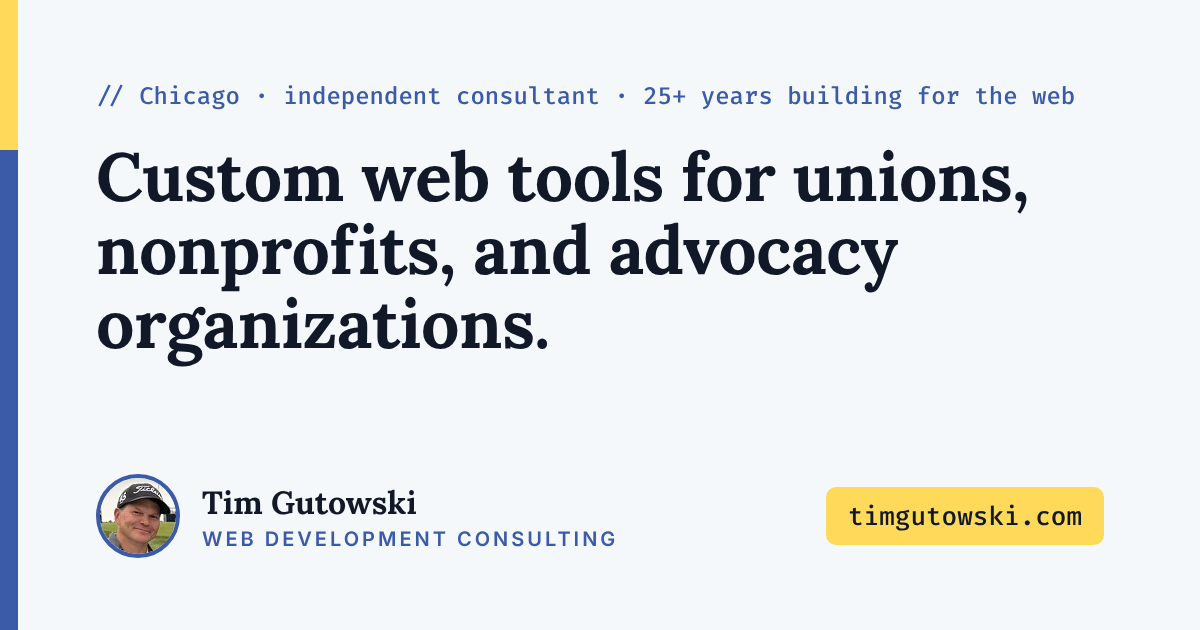
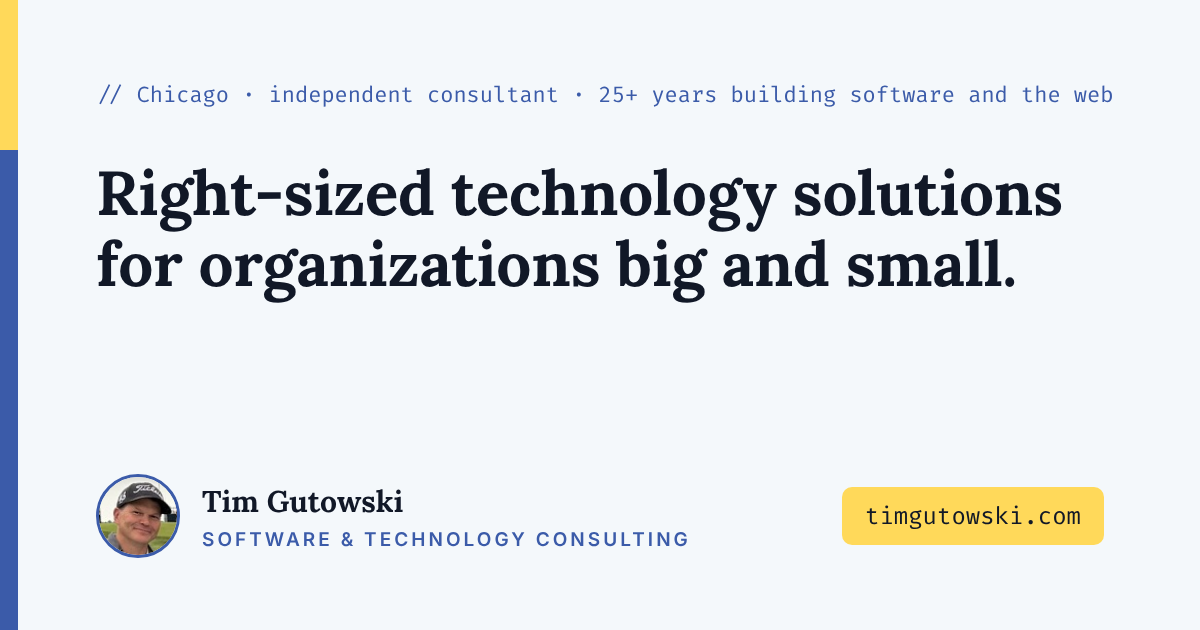
Copy edits from Jamie's review (Oct 26 pass)
Broaden positioning from "web development" to software & technology
consulting for organizations big and small; discovery-led home intro;
"How we work together"; drop "senior"/"white-label"/"hand-holding";
network referral in CTA; About intro line; regenerated OG image.

Claude-Session: https://claude.ai/code/session_01KY7vkmgpbkP1eK69cNLTrW

diff --git a/index.html b/index.html
@@ -3,9 +3,9 @@
 <head>
     <meta charset="UTF-8">
     <meta name="viewport" content="width=device-width, initial-scale=1.0">
-    <title>Tim Gutowski — Web Development Consulting</title>
-    <meta name="description" content="Tim Gutowski builds custom web tools for unions, nonprofits, and advocacy organizations: WordPress builds and rescues, Rails and React applications, legislative scorecards, and AWS infrastructure. Chicago-based, 25+ years of experience.">
-    <meta name="keywords" content="Tim Gutowski, web development consultant, WordPress developer, WordPress rescue, Ruby on Rails, React, JavaScript, TypeScript, PHP, MySQL, AWS, REST APIs, Action Network, EveryAction, Mailchimp, Asana API, AI integration, Claude, union websites, nonprofit websites, advocacy technology, legislative scorecard, Chicago consultant, freelance developer">
+    <title>Tim Gutowski — Software &amp; Technology Consulting</title>
+    <meta name="description" content="Tim Gutowski plans, builds, and implements right-sized technology solutions for organizations big and small — unions and nonprofits, pro sports leagues, campaigns, and federal agencies. Custom applications, WordPress, integrations, and AWS. Chicago-based, 25+ years of experience.">
+    <meta name="keywords" content="Tim Gutowski, software consultant, technology consultant, web development consultant, WordPress developer, WordPress rescue, Ruby on Rails, React, JavaScript, TypeScript, PHP, MySQL, AWS, REST APIs, Action Network, EveryAction, Mailchimp, Asana API, AI integration, Claude, union websites, nonprofit websites, advocacy technology, legislative scorecard, Chicago consultant, freelance developer">
     <link rel="canonical" href="https://timgutowski.com/">
     <meta name="theme-color" content="#3B5BA9">
     <link rel="icon" href="img/favicon.svg" type="image/svg+xml">
@@ -13,13 +13,13 @@
     <link rel="apple-touch-icon" href="img/apple-touch-icon.png">
     <meta property="og:type" content="website">
     <meta property="og:site_name" content="Tim Gutowski">
-    <meta property="og:title" content="Tim Gutowski — Web Development Consulting">
-    <meta property="og:description" content="Tim Gutowski builds custom web tools for unions, nonprofits, and advocacy organizations: WordPress builds and rescues, Rails and React applications, legislative scorecards, and AWS infrastructure. Chicago-based, 25+ years of experience.">
+    <meta property="og:title" content="Tim Gutowski — Software &amp; Technology Consulting">
+    <meta property="og:description" content="Tim Gutowski plans, builds, and implements right-sized technology solutions for organizations big and small — unions and nonprofits, pro sports leagues, campaigns, and federal agencies. Custom applications, WordPress, integrations, and AWS. Chicago-based, 25+ years of experience.">
     <meta property="og:url" content="https://timgutowski.com/">
     <meta property="og:image" content="https://timgutowski.com/img/og-image.png">
     <meta property="og:image:width" content="1200">
     <meta property="og:image:height" content="630">
-    <meta property="og:image:alt" content="Tim Gutowski — custom web tools for unions, nonprofits, and advocacy organizations">
+    <meta property="og:image:alt" content="Tim Gutowski — software and technology consulting for organizations big and small">
     <meta name="twitter:card" content="summary_large_image">
     <!-- Compiled Tailwind (rebuild with: npm run build:css) -->
     <link rel="stylesheet" href="css/tailwind.css">
@@ -39,7 +39,7 @@
                 <img src="img/headshot.jpeg" alt="Tim Gutowski" class="w-10 h-10 rounded-full border-2 border-tg-blue object-cover group-hover:border-tg-yellow-dark transition-colors duration-200">
                 <span class="flex flex-col leading-tight">
                     <span class="font-serif font-bold text-lg text-gray-900">Tim Gutowski</span>
-                    <span class="text-[11px] uppercase tracking-widest text-tg-blue">Web Development Consulting</span>
+                    <span class="text-[11px] uppercase tracking-widest text-tg-blue">Software &amp; Technology Consulting</span>
                 </span>
             </a>
             <div class="hidden md:flex items-center gap-7">
@@ -66,9 +66,9 @@
         <!-- Hero -->
         <section class="container mx-auto max-w-6xl px-4 pt-12 pb-16">
             <div class="max-w-3xl">
-                <p class="font-mono text-sm text-tg-blue mb-4">// Chicago &middot; independent consultant &middot; 25+ years building for the web</p>
-                <h1 class="font-serif text-4xl md:text-5xl font-bold leading-tight mb-6">Custom web tools for unions, nonprofits, and advocacy organizations.</h1>
-                <p class="text-lg text-gray-700 leading-relaxed mb-8">I plan, build, rescue, and scale the software behind campaigns and causes &mdash; legislative scorecards, organizing tools, WordPress builds and migrations, Rails and React applications &mdash; and I communicate clearly with technical and non-technical stakeholders alike.</p>
+                <p class="font-mono text-sm text-tg-blue mb-4">// Chicago &middot; independent consultant &middot; 25+ years building software and the web</p>
+                <h1 class="font-serif text-4xl md:text-5xl font-bold leading-tight mb-6">Right-sized technology solutions for organizations big and small.</h1>
+                <p class="text-lg text-gray-700 leading-relaxed mb-8">I start by understanding the challenge you&rsquo;re facing, the systems you already have, and what success looks like. Then I plan, build, and implement a solution that fits &mdash; and grows with you. I&rsquo;ve done this for unions and nonprofits, pro sports leagues, presidential campaigns, and federal agencies, and I communicate clearly with technical and non-technical stakeholders alike.</p>
                 <div class="flex flex-wrap gap-4">
                     <a href="mailto:timgut@gmail.com?subject=Project%20inquiry" class="bg-tg-blue hover:bg-tg-yellow-dark hover:text-gray-900 text-white font-semibold px-6 py-3 rounded-lg transition-colors duration-200">Start a project</a>
                     <a href="portfolio.html" class="border border-tg-blue text-tg-blue hover:bg-tg-blue hover:text-white font-semibold px-6 py-3 rounded-lg transition-colors duration-200">See recent work</a>
@@ -79,7 +79,7 @@
         <!-- Credibility strip -->
         <section class="bg-white border-y border-gray-200">
             <div class="container mx-auto max-w-6xl px-4 py-6">
-                <p class="text-sm text-gray-600"><span class="uppercase tracking-widest text-xs text-gray-400 mr-3">Built for</span> AFSCME &middot; CPWR (Silica-Safe) &middot; Robert Wood Johnson Foundation &middot; presidential campaigns &middot; NFL, MLB &amp; NHL properties &middot; federal agencies</p>
+                <p class="text-sm text-gray-600"><span class="uppercase tracking-widest text-xs text-gray-400 mr-3">Built for</span> NFL, MLB &amp; NHL properties &middot; presidential campaigns &middot; federal agencies &middot; AFSCME &middot; CPWR (Silica-Safe) &middot; Robert Wood Johnson Foundation</p>
             </div>
         </section>
 
@@ -151,17 +151,17 @@
             </div>
         </section>
 
-        <!-- How I work -->
+        <!-- How we work together -->
         <section class="container mx-auto max-w-6xl px-4 py-16">
-            <h2 class="font-serif text-3xl font-bold mb-8">How I work</h2>
+            <h2 class="font-serif text-3xl font-bold mb-8">How we work together</h2>
             <div class="grid gap-6 md:grid-cols-3">
                 <div class="bg-white rounded-xl border border-gray-200 p-6">
                     <p class="font-mono text-tg-blue text-sm mb-2">01 &mdash; Scope</p>
-                    <p class="text-sm text-gray-600 leading-relaxed">A short call, then a written scope with real estimates. I manage software, budgets, and expectations for a living &mdash; you&rsquo;ll always know where things stand.</p>
+                    <p class="text-sm text-gray-600 leading-relaxed">A short call to understand the problem, your current systems, and what success looks like &mdash; then a written scope with real estimates. I manage software, budgets, and expectations for a living &mdash; you&rsquo;ll always know where things stand.</p>
                 </div>
                 <div class="bg-white rounded-xl border border-gray-200 p-6">
                     <p class="font-mono text-tg-blue text-sm mb-2">02 &mdash; Build</p>
-                    <p class="text-sm text-gray-600 leading-relaxed">Senior work without hand-holding: short-term projects (1&ndash;3 months), ongoing engagements, or white-label capacity for agencies that need extra hands.</p>
+                    <p class="text-sm text-gray-600 leading-relaxed">Your needs, efficient solutions: short-term projects (1&ndash;3 months), ongoing engagements, or extra capacity for agencies that need to extend their team.</p>
                 </div>
                 <div class="bg-white rounded-xl border border-gray-200 p-6">
                     <p class="font-mono text-tg-blue text-sm mb-2">03 &mdash; Handoff</p>
@@ -174,7 +174,7 @@
         <section class="container mx-auto max-w-6xl px-4">
             <div class="bg-tg-blue rounded-2xl px-8 py-12 text-center">
                 <h2 class="font-serif text-3xl font-bold text-white mb-3">Have a project in mind?</h2>
-                <p class="text-blue-100 mb-8 max-w-xl mx-auto">Tell me what you&rsquo;re trying to build, fix, or replace. I&rsquo;ll tell you honestly whether I&rsquo;m the right person for it.</p>
+                <p class="text-blue-100 mb-8 max-w-xl mx-auto">Tell me what you&rsquo;re trying to build, fix, or replace. I&rsquo;ll tell you honestly whether I&rsquo;m the right person for it &mdash; and if I&rsquo;m not, I&rsquo;ll point you to someone in my network who is.</p>
                 <div class="flex flex-wrap justify-center gap-4">
                     <a href="mailto:timgut@gmail.com?subject=Project%20inquiry" class="bg-tg-yellow hover:bg-tg-yellow-dark text-gray-900 font-semibold px-6 py-3 rounded-lg transition-colors duration-200"><i class="fas fa-envelope mr-2"></i>Email me</a>
                     <a href="https://www.linkedin.com/in/timgutowski/" class="border border-white/40 text-white hover:bg-white hover:text-tg-blue font-semibold px-6 py-3 rounded-lg transition-colors duration-200"><i class="fab fa-linkedin mr-2"></i>Message on LinkedIn</a>
@@ -186,7 +186,7 @@
         <div class="container mx-auto max-w-6xl px-4 py-12 grid gap-10 md:grid-cols-3">
             <div>
                 <p class="font-serif font-bold text-white text-lg mb-2">Tim Gutowski</p>
-                <p class="text-sm leading-relaxed">Custom web tools for unions, nonprofits, and advocacy organizations &mdash; plus WordPress rescues and Rails/React application work. Based in Chicago, working everywhere.</p>
+                <p class="text-sm leading-relaxed">Right-sized technology solutions for organizations big and small &mdash; with deep roots in unions, nonprofits, government, and campaigns. Based in Chicago, working everywhere.</p>
             </div>
             <div>
                 <p class="text-xs uppercase tracking-widest text-gray-500 mb-3">Site</p>

diff --git a/consulting.html b/consulting.html
@@ -4,8 +4,8 @@
     <meta charset="UTF-8">
     <meta name="viewport" content="width=device-width, initial-scale=1.0">
     <title>Services — Tim Gutowski</title>
-    <meta name="description" content="Consulting services from Tim Gutowski: WordPress builds, migrations and rescues; advocacy and data tools; custom Rails/React applications; AWS infrastructure and cost optimization; API and AI integrations. Project, ongoing, and white-label engagements.">
-    <meta name="keywords" content="Tim Gutowski, web development consultant, WordPress developer, WordPress rescue, Ruby on Rails, React, JavaScript, TypeScript, PHP, MySQL, AWS, REST APIs, Action Network, EveryAction, Mailchimp, Asana API, AI integration, Claude, union websites, nonprofit websites, advocacy technology, legislative scorecard, Chicago consultant, freelance developer">
+    <meta name="description" content="Consulting services from Tim Gutowski: WordPress builds, migrations and rescues; advocacy and data tools; custom Rails/React applications; AWS infrastructure and cost optimization; API and AI integrations. Project, ongoing, and team-extension engagements.">
+    <meta name="keywords" content="Tim Gutowski, software consultant, technology consultant, web development consultant, WordPress developer, WordPress rescue, Ruby on Rails, React, JavaScript, TypeScript, PHP, MySQL, AWS, REST APIs, Action Network, EveryAction, Mailchimp, Asana API, AI integration, Claude, union websites, nonprofit websites, advocacy technology, legislative scorecard, Chicago consultant, freelance developer">
     <link rel="canonical" href="https://timgutowski.com/consulting.html">
     <meta name="theme-color" content="#3B5BA9">
     <link rel="icon" href="img/favicon.svg" type="image/svg+xml">
@@ -14,12 +14,12 @@
     <meta property="og:type" content="website">
     <meta property="og:site_name" content="Tim Gutowski">
     <meta property="og:title" content="Services — Tim Gutowski">
-    <meta property="og:description" content="Consulting services from Tim Gutowski: WordPress builds, migrations and rescues; advocacy and data tools; custom Rails/React applications; AWS infrastructure and cost optimization; API and AI integrations. Project, ongoing, and white-label engagements.">
+    <meta property="og:description" content="Consulting services from Tim Gutowski: WordPress builds, migrations and rescues; advocacy and data tools; custom Rails/React applications; AWS infrastructure and cost optimization; API and AI integrations. Project, ongoing, and team-extension engagements.">
     <meta property="og:url" content="https://timgutowski.com/consulting.html">
     <meta property="og:image" content="https://timgutowski.com/img/og-image.png">
     <meta property="og:image:width" content="1200">
     <meta property="og:image:height" content="630">
-    <meta property="og:image:alt" content="Tim Gutowski — custom web tools for unions, nonprofits, and advocacy organizations">
+    <meta property="og:image:alt" content="Tim Gutowski — software and technology consulting for organizations big and small">
     <meta name="twitter:card" content="summary_large_image">
     <!-- Compiled Tailwind (rebuild with: npm run build:css) -->
     <link rel="stylesheet" href="css/tailwind.css">
@@ -39,7 +39,7 @@
                 <img src="img/headshot.jpeg" alt="Tim Gutowski" class="w-10 h-10 rounded-full border-2 border-tg-blue object-cover group-hover:border-tg-yellow-dark transition-colors duration-200">
                 <span class="flex flex-col leading-tight">
                     <span class="font-serif font-bold text-lg text-gray-900">Tim Gutowski</span>
-                    <span class="text-[11px] uppercase tracking-widest text-tg-blue">Web Development Consulting</span>
+                    <span class="text-[11px] uppercase tracking-widest text-tg-blue">Software &amp; Technology Consulting</span>
                 </span>
             </a>
             <div class="hidden md:flex items-center gap-7">
@@ -65,7 +65,7 @@
     <main class="pt-24">
         <section class="container mx-auto max-w-4xl px-4 pt-12 pb-10">
             <h1 class="font-serif text-4xl font-bold mb-4">Services</h1>
-            <p class="text-lg text-gray-700 leading-relaxed">I take on a limited number of engagements at a time, so every project gets senior attention from scope to handoff. Here&rsquo;s what that work usually looks like.</p>
+            <p class="text-lg text-gray-700 leading-relaxed">I take on a limited number of engagements at a time and work with clients who need what I deliver. You get the most experienced person &mdash; me &mdash; for the duration of your project, from scope to handoff. I don&rsquo;t outsource the work. Here&rsquo;s what it usually looks like.</p>
         </section>
         <section class="container mx-auto max-w-4xl px-4 grid gap-8">
             <div class="bg-white rounded-xl border border-gray-200 p-8" id="wordpress">
@@ -202,11 +202,11 @@
                 </div>
                 <div class="bg-white rounded-xl border border-gray-200 p-6">
                     <h3 class="font-semibold mb-2"><i class="fas fa-rotate text-tg-blue mr-2"></i>Ongoing</h3>
-                    <p class="text-sm text-gray-600 leading-relaxed">A standing monthly engagement for organizations that need a senior developer in their corner without a full-time hire.</p>
+                    <p class="text-sm text-gray-600 leading-relaxed">A standing monthly engagement for organizations that need an experienced developer in their corner without a full-time hire.</p>
                 </div>
                 <div class="bg-white rounded-xl border border-gray-200 p-6">
-                    <h3 class="font-semibold mb-2"><i class="fas fa-people-arrows text-tg-blue mr-2"></i>White-label</h3>
-                    <p class="text-sm text-gray-600 leading-relaxed">Overflow capacity for agencies: your brand, your PM process, my code. I do this today for several agency partners &mdash; scope it, hand it off, get it back.</p>
+                    <h3 class="font-semibold mb-2"><i class="fas fa-people-arrows text-tg-blue mr-2"></i>Team extension</h3>
+                    <p class="text-sm text-gray-600 leading-relaxed">Extra capacity for agencies: your brand, your PM process, my code. I do this today for several agency partners &mdash; scope it, hand it off, get it back.</p>
                 </div>
             </div>
             <p class="text-sm text-gray-600 mt-6">A good fit: small development and design teams (I can recommend trusted partners when you need more hands), clear stakeholders, and work in the WordPress, Rails/React, or AWS worlds. If your project isn&rsquo;t a fit, I&rsquo;ll say so and point you to someone better.</p>
@@ -223,7 +223,7 @@
         <div class="container mx-auto max-w-6xl px-4 py-12 grid gap-10 md:grid-cols-3">
             <div>
                 <p class="font-serif font-bold text-white text-lg mb-2">Tim Gutowski</p>
-                <p class="text-sm leading-relaxed">Custom web tools for unions, nonprofits, and advocacy organizations &mdash; plus WordPress rescues and Rails/React application work. Based in Chicago, working everywhere.</p>
+                <p class="text-sm leading-relaxed">Right-sized technology solutions for organizations big and small &mdash; with deep roots in unions, nonprofits, government, and campaigns. Based in Chicago, working everywhere.</p>
             </div>
             <div>
                 <p class="text-xs uppercase tracking-widest text-gray-500 mb-3">Site</p>

diff --git a/about.html b/about.html
@@ -4,8 +4,8 @@
     <meta charset="UTF-8">
     <meta name="viewport" content="width=device-width, initial-scale=1.0">
     <title>About — Tim Gutowski</title>
-    <meta name="description" content="Tim Gutowski is a Chicago-based web development consultant with 25+ years in online technology, a Masters in Computer Science from the University of Chicago, and a writer's sensibility for explaining why software works — not just how.">
-    <meta name="keywords" content="Tim Gutowski, web development consultant, WordPress developer, WordPress rescue, Ruby on Rails, React, JavaScript, TypeScript, PHP, MySQL, AWS, REST APIs, Action Network, EveryAction, Mailchimp, Asana API, AI integration, Claude, union websites, nonprofit websites, advocacy technology, legislative scorecard, Chicago consultant, freelance developer">
+    <meta name="description" content="Tim Gutowski is a Chicago-based software and technology consultant with 25+ years in online technology, a Masters in Computer Science from the University of Chicago, and a writer's sensibility for explaining why software works — not just how.">
+    <meta name="keywords" content="Tim Gutowski, software consultant, technology consultant, web development consultant, WordPress developer, WordPress rescue, Ruby on Rails, React, JavaScript, TypeScript, PHP, MySQL, AWS, REST APIs, Action Network, EveryAction, Mailchimp, Asana API, AI integration, Claude, union websites, nonprofit websites, advocacy technology, legislative scorecard, Chicago consultant, freelance developer">
     <link rel="canonical" href="https://timgutowski.com/about.html">
     <meta name="theme-color" content="#3B5BA9">
     <link rel="icon" href="img/favicon.svg" type="image/svg+xml">
@@ -14,12 +14,12 @@
     <meta property="og:type" content="website">
     <meta property="og:site_name" content="Tim Gutowski">
     <meta property="og:title" content="About — Tim Gutowski">
-    <meta property="og:description" content="Tim Gutowski is a Chicago-based web development consultant with 25+ years in online technology, a Masters in Computer Science from the University of Chicago, and a writer's sensibility for explaining why software works — not just how.">
+    <meta property="og:description" content="Tim Gutowski is a Chicago-based software and technology consultant with 25+ years in online technology, a Masters in Computer Science from the University of Chicago, and a writer's sensibility for explaining why software works — not just how.">
     <meta property="og:url" content="https://timgutowski.com/about.html">
     <meta property="og:image" content="https://timgutowski.com/img/og-image.png">
     <meta property="og:image:width" content="1200">
     <meta property="og:image:height" content="630">
-    <meta property="og:image:alt" content="Tim Gutowski — custom web tools for unions, nonprofits, and advocacy organizations">
+    <meta property="og:image:alt" content="Tim Gutowski — software and technology consulting for organizations big and small">
     <meta name="twitter:card" content="summary_large_image">
     <!-- Compiled Tailwind (rebuild with: npm run build:css) -->
     <link rel="stylesheet" href="css/tailwind.css">
@@ -39,7 +39,7 @@
                 <img src="img/headshot.jpeg" alt="Tim Gutowski" class="w-10 h-10 rounded-full border-2 border-tg-blue object-cover group-hover:border-tg-yellow-dark transition-colors duration-200">
                 <span class="flex flex-col leading-tight">
                     <span class="font-serif font-bold text-lg text-gray-900">Tim Gutowski</span>
-                    <span class="text-[11px] uppercase tracking-widest text-tg-blue">Web Development Consulting</span>
+                    <span class="text-[11px] uppercase tracking-widest text-tg-blue">Software &amp; Technology Consulting</span>
                 </span>
             </a>
             <div class="hidden md:flex items-center gap-7">
@@ -67,9 +67,10 @@
             <img src="img/headshot.jpeg" alt="Tim Gutowski" class="w-36 h-36 rounded-2xl border-4 border-tg-blue object-cover mb-6 md:mb-0 shrink-0">
             <div>
                 <h1 class="font-serif text-4xl font-bold mb-4">About Tim</h1>
+                <p class="text-lg text-gray-700 leading-relaxed mb-4">Hey &mdash; I&rsquo;m Tim. I&rsquo;m solutions-oriented and don&rsquo;t dwell in process just for the sake of it. That keeps me nimble, focused on delivering your goals, and (I&rsquo;m told) a generally good guy to work with.</p>
                 <p class="text-gray-700 leading-relaxed mb-4">I&rsquo;ve been working in online technology for more than 25 years, and I came to it as a writer. As a journalism major at the University of Illinois, I started on the editorial side, running online coverage for sports properties &mdash; and kept gravitating toward the technical staff, helping figure out solutions alongside the developers. Eventually I made it official: while working full-time I earned a Masters in Computer Science at the University of Chicago and switched careers for good.</p>
                 <p class="text-gray-700 leading-relaxed mb-4">Since then I&rsquo;ve built site features for cars.com, managed the University of Chicago&rsquo;s central web presence, and spent nearly two decades at a Chicago design and development agency, where I rose from web developer to Director of Development &mdash; overseeing planning, budgets, and production of websites and custom applications for political campaigns, unions, and nonprofits.</p>
-                <p class="text-gray-700 leading-relaxed mb-4">Today I work independently &mdash; consulting for organizations directly, and providing senior white-label development for agencies I&rsquo;ve partnered with for years. I still bring a writer&rsquo;s sensibility to technical work: I want to know <em>why</em> something works, not just how &mdash; and I can explain it to your board as clearly as to your developers.</p>
+                <p class="text-gray-700 leading-relaxed mb-4">Today I work independently &mdash; consulting for organizations directly, and extending the teams of agencies I&rsquo;ve partnered with for years. I still bring a writer&rsquo;s sensibility to technical work: I want to know <em>why</em> something works, not just how &mdash; and I can explain it to your board as clearly as to your developers.</p>
             </div>
         </section>
 
@@ -103,7 +104,7 @@
         <div class="container mx-auto max-w-6xl px-4 py-12 grid gap-10 md:grid-cols-3">
             <div>
                 <p class="font-serif font-bold text-white text-lg mb-2">Tim Gutowski</p>
-                <p class="text-sm leading-relaxed">Custom web tools for unions, nonprofits, and advocacy organizations &mdash; plus WordPress rescues and Rails/React application work. Based in Chicago, working everywhere.</p>
+                <p class="text-sm leading-relaxed">Right-sized technology solutions for organizations big and small &mdash; with deep roots in unions, nonprofits, government, and campaigns. Based in Chicago, working everywhere.</p>
             </div>
             <div>
                 <p class="text-xs uppercase tracking-widest text-gray-500 mb-3">Site</p>

diff --git a/404.html b/404.html
@@ -5,8 +5,8 @@
     <meta name="viewport" content="width=device-width, initial-scale=1.0">
     <meta name="robots" content="noindex">
     <title>Page not found — Tim Gutowski</title>
-    <meta name="description" content="Tim Gutowski is a Chicago-based web development consultant with 25+ years in online technology, a Masters in Computer Science from the University of Chicago, and a writer's sensibility for explaining why software works — not just how.">
-    <meta name="keywords" content="Tim Gutowski, web development consultant, WordPress developer, WordPress rescue, Ruby on Rails, React, JavaScript, TypeScript, PHP, MySQL, AWS, REST APIs, Action Network, EveryAction, Mailchimp, Asana API, AI integration, Claude, union websites, nonprofit websites, advocacy technology, legislative scorecard, Chicago consultant, freelance developer">
+    <meta name="description" content="Tim Gutowski is a Chicago-based software and technology consultant with 25+ years in online technology, a Masters in Computer Science from the University of Chicago, and a writer's sensibility for explaining why software works — not just how.">
+    <meta name="keywords" content="Tim Gutowski, software consultant, technology consultant, web development consultant, WordPress developer, WordPress rescue, Ruby on Rails, React, JavaScript, TypeScript, PHP, MySQL, AWS, REST APIs, Action Network, EveryAction, Mailchimp, Asana API, AI integration, Claude, union websites, nonprofit websites, advocacy technology, legislative scorecard, Chicago consultant, freelance developer">
         <meta name="theme-color" content="#3B5BA9">
     <link rel="icon" href="/img/favicon.svg" type="image/svg+xml">
     <link rel="icon" href="/img/favicon-32.png" sizes="32x32" type="image/png">
@@ -14,12 +14,12 @@
     <meta property="og:type" content="website">
     <meta property="og:site_name" content="Tim Gutowski">
     <meta property="og:title" content="About — Tim Gutowski">
-    <meta property="og:description" content="Tim Gutowski is a Chicago-based web development consultant with 25+ years in online technology, a Masters in Computer Science from the University of Chicago, and a writer's sensibility for explaining why software works — not just how.">
+    <meta property="og:description" content="Tim Gutowski is a Chicago-based software and technology consultant with 25+ years in online technology, a Masters in Computer Science from the University of Chicago, and a writer's sensibility for explaining why software works — not just how.">
     <meta property="og:url" content="https://timgutowski.com/about.html">
     <meta property="og:image" content="https://timgutowski.com/img/og-image.png">
     <meta property="og:image:width" content="1200">
     <meta property="og:image:height" content="630">
-    <meta property="og:image:alt" content="Tim Gutowski — custom web tools for unions, nonprofits, and advocacy organizations">
+    <meta property="og:image:alt" content="Tim Gutowski — software and technology consulting for organizations big and small">
     <meta name="twitter:card" content="summary_large_image">
     <!-- Compiled Tailwind (rebuild with: npm run build:css) -->
     <link rel="stylesheet" href="/css/tailwind.css">
@@ -39,7 +39,7 @@
                 <img src="/img/headshot.jpeg" alt="Tim Gutowski" class="w-10 h-10 rounded-full border-2 border-tg-blue object-cover group-hover:border-tg-yellow-dark transition-colors duration-200">
                 <span class="flex flex-col leading-tight">
                     <span class="font-serif font-bold text-lg text-gray-900">Tim Gutowski</span>
-                    <span class="text-[11px] uppercase tracking-widest text-tg-blue">Web Development Consulting</span>
+                    <span class="text-[11px] uppercase tracking-widest text-tg-blue">Software &amp; Technology Consulting</span>
                 </span>
             </a>
             <div class="hidden md:flex items-center gap-7">
@@ -79,7 +79,7 @@
         <div class="container mx-auto max-w-6xl px-4 py-12 grid gap-10 md:grid-cols-3">
             <div>
                 <p class="font-serif font-bold text-white text-lg mb-2">Tim Gutowski</p>
-                <p class="text-sm leading-relaxed">Custom web tools for unions, nonprofits, and advocacy organizations &mdash; plus WordPress rescues and Rails/React application work. Based in Chicago, working everywhere.</p>
+                <p class="text-sm leading-relaxed">Right-sized technology solutions for organizations big and small &mdash; with deep roots in unions, nonprofits, government, and campaigns. Based in Chicago, working everywhere.</p>
             </div>
             <div>
                 <p class="text-xs uppercase tracking-widest text-gray-500 mb-3">Site</p>

diff --git a/portfolio.html b/portfolio.html
@@ -5,7 +5,7 @@
     <meta name="viewport" content="width=device-width, initial-scale=1.0">
     <title>Work — Tim Gutowski</title>
     <meta name="description" content="Selected work by Tim Gutowski: the AFSCME legislative scorecard, the Silica-Safe planning tool for CPWR, an enterprise Rails CMS serving 300+ sites, AWS platform management, and 25+ years of web development for campaigns, unions, and nonprofits.">
-    <meta name="keywords" content="Tim Gutowski, web development consultant, WordPress developer, WordPress rescue, Ruby on Rails, React, JavaScript, TypeScript, PHP, MySQL, AWS, REST APIs, Action Network, EveryAction, Mailchimp, Asana API, AI integration, Claude, union websites, nonprofit websites, advocacy technology, legislative scorecard, Chicago consultant, freelance developer">
+    <meta name="keywords" content="Tim Gutowski, software consultant, technology consultant, web development consultant, WordPress developer, WordPress rescue, Ruby on Rails, React, JavaScript, TypeScript, PHP, MySQL, AWS, REST APIs, Action Network, EveryAction, Mailchimp, Asana API, AI integration, Claude, union websites, nonprofit websites, advocacy technology, legislative scorecard, Chicago consultant, freelance developer">
     <link rel="canonical" href="https://timgutowski.com/portfolio.html">
     <meta name="theme-color" content="#3B5BA9">
     <link rel="icon" href="img/favicon.svg" type="image/svg+xml">
@@ -19,7 +19,7 @@
     <meta property="og:image" content="https://timgutowski.com/img/og-image.png">
     <meta property="og:image:width" content="1200">
     <meta property="og:image:height" content="630">
-    <meta property="og:image:alt" content="Tim Gutowski — custom web tools for unions, nonprofits, and advocacy organizations">
+    <meta property="og:image:alt" content="Tim Gutowski — software and technology consulting for organizations big and small">
     <meta name="twitter:card" content="summary_large_image">
     <!-- Compiled Tailwind (rebuild with: npm run build:css) -->
     <link rel="stylesheet" href="css/tailwind.css">
@@ -39,7 +39,7 @@
                 <img src="img/headshot.jpeg" alt="Tim Gutowski" class="w-10 h-10 rounded-full border-2 border-tg-blue object-cover group-hover:border-tg-yellow-dark transition-colors duration-200">
                 <span class="flex flex-col leading-tight">
                     <span class="font-serif font-bold text-lg text-gray-900">Tim Gutowski</span>
-                    <span class="text-[11px] uppercase tracking-widest text-tg-blue">Web Development Consulting</span>
+                    <span class="text-[11px] uppercase tracking-widest text-tg-blue">Software &amp; Technology Consulting</span>
                 </span>
             </a>
             <div class="hidden md:flex items-center gap-7">
@@ -148,7 +148,7 @@
         <div class="container mx-auto max-w-6xl px-4 py-12 grid gap-10 md:grid-cols-3">
             <div>
                 <p class="font-serif font-bold text-white text-lg mb-2">Tim Gutowski</p>
-                <p class="text-sm leading-relaxed">Custom web tools for unions, nonprofits, and advocacy organizations &mdash; plus WordPress rescues and Rails/React application work. Based in Chicago, working everywhere.</p>
+                <p class="text-sm leading-relaxed">Right-sized technology solutions for organizations big and small &mdash; with deep roots in unions, nonprofits, government, and campaigns. Based in Chicago, working everywhere.</p>
             </div>
             <div>
                 <p class="text-xs uppercase tracking-widest text-gray-500 mb-3">Site</p>

diff --git a/resume.html b/resume.html
@@ -5,7 +5,7 @@
     <meta name="viewport" content="width=device-width, initial-scale=1.0">
     <title>Resume — Tim Gutowski</title>
     <meta name="description" content="Resume of Tim Gutowski: Director of Development at a Chicago agency, full-stack engineer (Ruby on Rails, React, AWS, WordPress), with prior roles at the University of Chicago, Classified Ventures (cars.com), and Ignite Sports Media.">
-    <meta name="keywords" content="Tim Gutowski, web development consultant, WordPress developer, WordPress rescue, Ruby on Rails, React, JavaScript, TypeScript, PHP, MySQL, AWS, REST APIs, Action Network, EveryAction, Mailchimp, Asana API, AI integration, Claude, union websites, nonprofit websites, advocacy technology, legislative scorecard, Chicago consultant, freelance developer">
+    <meta name="keywords" content="Tim Gutowski, software consultant, technology consultant, web development consultant, WordPress developer, WordPress rescue, Ruby on Rails, React, JavaScript, TypeScript, PHP, MySQL, AWS, REST APIs, Action Network, EveryAction, Mailchimp, Asana API, AI integration, Claude, union websites, nonprofit websites, advocacy technology, legislative scorecard, Chicago consultant, freelance developer">
     <link rel="canonical" href="https://timgutowski.com/resume.html">
     <meta name="theme-color" content="#3B5BA9">
     <link rel="icon" href="img/favicon.svg" type="image/svg+xml">
@@ -19,7 +19,7 @@
     <meta property="og:image" content="https://timgutowski.com/img/og-image.png">
     <meta property="og:image:width" content="1200">
     <meta property="og:image:height" content="630">
-    <meta property="og:image:alt" content="Tim Gutowski — custom web tools for unions, nonprofits, and advocacy organizations">
+    <meta property="og:image:alt" content="Tim Gutowski — software and technology consulting for organizations big and small">
     <meta name="twitter:card" content="summary_large_image">
     <!-- Compiled Tailwind (rebuild with: npm run build:css) -->
     <link rel="stylesheet" href="css/tailwind.css">
@@ -39,7 +39,7 @@
                 <img src="img/headshot.jpeg" alt="Tim Gutowski" class="w-10 h-10 rounded-full border-2 border-tg-blue object-cover group-hover:border-tg-yellow-dark transition-colors duration-200">
                 <span class="flex flex-col leading-tight">
                     <span class="font-serif font-bold text-lg text-gray-900">Tim Gutowski</span>
-                    <span class="text-[11px] uppercase tracking-widest text-tg-blue">Web Development Consulting</span>
+                    <span class="text-[11px] uppercase tracking-widest text-tg-blue">Software &amp; Technology Consulting</span>
                 </span>
             </a>
             <div class="hidden md:flex items-center gap-7">
@@ -132,7 +132,7 @@
         <div class="container mx-auto max-w-6xl px-4 py-12 grid gap-10 md:grid-cols-3">
             <div>
                 <p class="font-serif font-bold text-white text-lg mb-2">Tim Gutowski</p>
-                <p class="text-sm leading-relaxed">Custom web tools for unions, nonprofits, and advocacy organizations &mdash; plus WordPress rescues and Rails/React application work. Based in Chicago, working everywhere.</p>
+                <p class="text-sm leading-relaxed">Right-sized technology solutions for organizations big and small &mdash; with deep roots in unions, nonprofits, government, and campaigns. Based in Chicago, working everywhere.</p>
             </div>
             <div>
                 <p class="text-xs uppercase tracking-widest text-gray-500 mb-3">Site</p>
